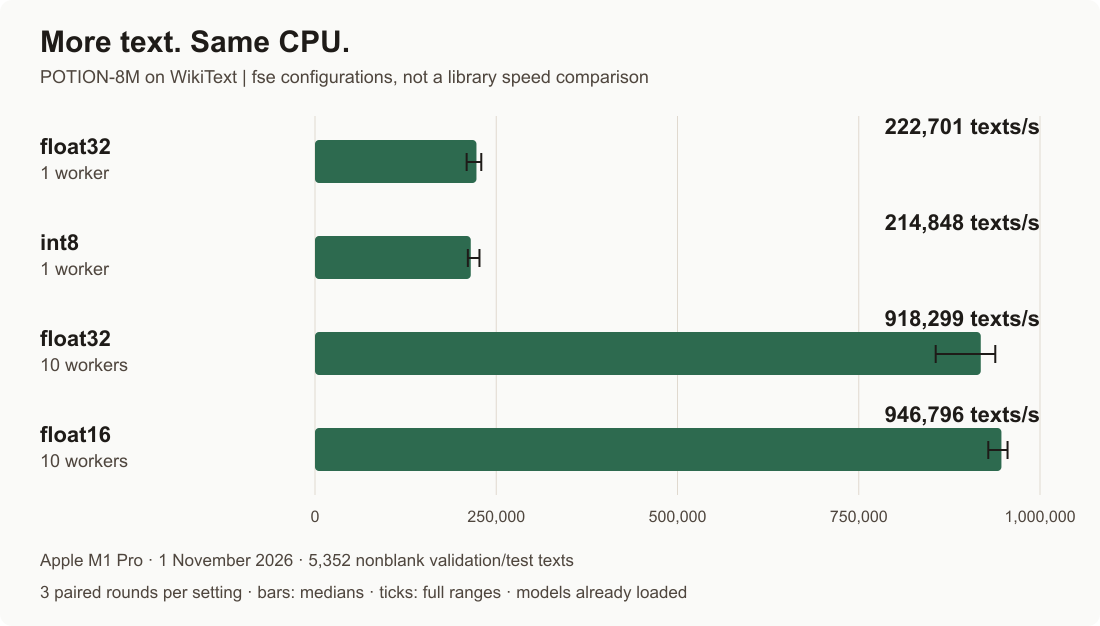
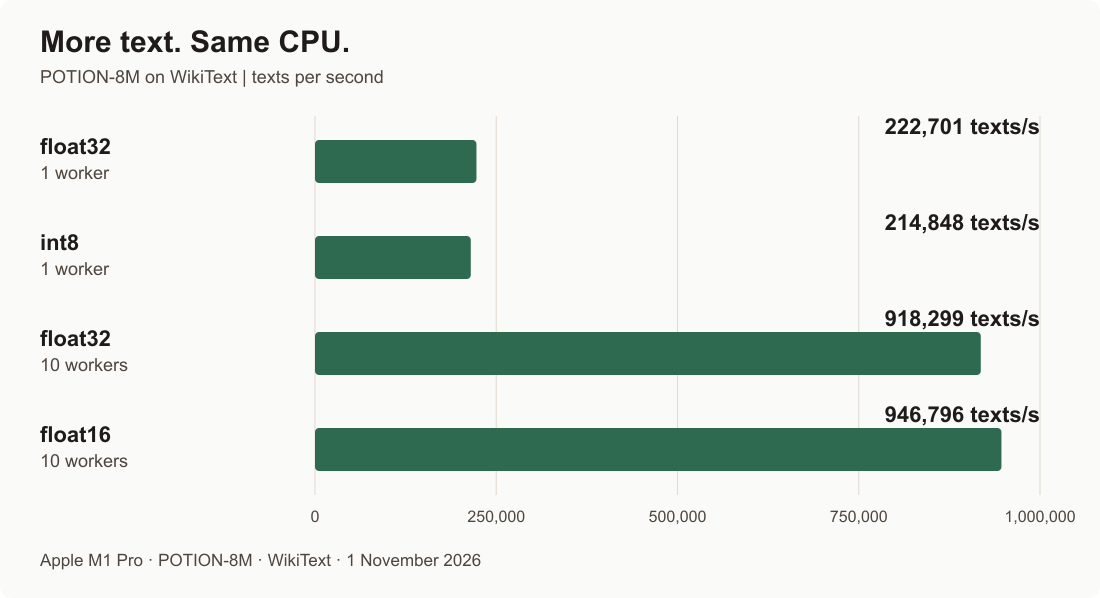
docs: simplify speed graphics and retain measurement details in evidence
Claude-Session: https://claude.ai/code/session_01GmNVELnYYJrhSRai3aBhk4

diff --git a/media/readme/generate.py b/media/readme/generate.py
@@ -29,14 +29,14 @@ def text(x, y, value, size=18, fill=None, weight=400, anchor="start"):
 for theme in ("light", "dark"):
     colors = {k: v["value"] for k, v in brand[theme].items()}
     parts = [
-        f'<svg xmlns="http://www.w3.org/2000/svg" width="1100" height="626" viewBox="0 0 1100 626" role="img" aria-labelledby="title desc"><title id="title">fse throughput on WikiText</title><desc id="desc">POTION-8M: float32 one worker 222701 texts per second; int8 one worker 214848; float32 ten workers 918299; float16 ten workers 946796. Bars show medians, ticks show full ranges. Apple M1 Pro, 1 November 2026. This compares fse configurations, not libraries.</desc><rect width="1100" height="626" rx="12" fill="{colors["bg"]}"/><g font-family="Geist, Arial, sans-serif">'
+        f'<svg xmlns="http://www.w3.org/2000/svg" width="1100" height="598" viewBox="0 0 1100 598" role="img" aria-labelledby="title desc"><title id="title">fse throughput on WikiText</title><desc id="desc">POTION-8M: float32 one worker 222701 texts per second; int8 one worker 214848; float32 ten workers 918299; float16 ten workers 946796. Apple M1 Pro, 1 November 2026. Model already loaded.</desc><rect width="1100" height="598" rx="12" fill="{colors["bg"]}"/><g font-family="Geist, Arial, sans-serif">'
     ]
     parts += [
         text(40, 52, "More text. Same CPU.", 30, weight=700),
         text(
             40,
             83,
-            "POTION-8M on WikiText  |  fse configurations, not a library speed comparison",
+            "POTION-8M on WikiText  |  texts per second",
             18,
             colors["text-secondary"],
         ),
@@ -59,8 +59,6 @@ for theme in ("light", "dark"):
         d = data[dtype, w]
         y = 140 + 96 * i
         end = x0 + width * d["median"] / 1000000
-        lo = x0 + width * d["min"] / 1000000
-        hi = x0 + width * d["max"] / 1000000
         parts += [
             text(40, y + 14, dtype, 22, weight=700),
             text(
@@ -72,20 +70,12 @@ for theme in ("light", "dark"):
             ),
             text(1040, y - 6, f"{d['median']:,.0f} texts/s", 22, weight=700, anchor="end"),
             f'<rect x="{x0}" y="{y}" width="{end - x0:.4f}" height="43" rx="4" fill="{colors["accent"]}"/>',
-            f'<path d="M{lo} {y + 22} H{hi} M{lo} {y + 13} V{y + 31} M{hi} {y + 13} V{y + 31}" fill="none" stroke="{colors["text"]}" stroke-width="2"/>',
         ]
     parts += [
         text(
             40,
             566,
-            "Apple M1 Pro  ·  1 November 2026  ·  5,352 nonblank validation/test texts",
-            17,
-            colors["text-secondary"],
-        ),
-        text(
-            40,
-            598,
-            "3 paired rounds per setting  ·  bars: medians  ·  ticks: full ranges  ·  models already loaded",
+            "Apple M1 Pro  ·  POTION-8M  ·  WikiText  ·  1 November 2026",
             17,
             colors["text-secondary"],
         ),

diff --git a/docs/benchmarks/readme-evidence.md b/docs/benchmarks/readme-evidence.md
@@ -347,3 +347,30 @@ The old 1.x STS results belong to a different API and recipe.
 See the [1.x results](https://github.com/oborchers/Fast_Sentence_Embeddings/blob/1.x/README.md#results).
 They do not measure these 2.0 models.
 
+
+## Work kept out of the main README
+
+The main README shows final values only and links here once with “How we measured”.
+It omits unfinished comparison rows and moves measurement-process wording here, including controls, A/A, ranges and noise labels.
+The full figures and source journals above retain their qualifications.
+
+TODO(DR-151): Fill the classification comparison table and chart from committed matched-pipeline records.
+Keep normalized-linear and raw-mean folded cases separate. Use the same model, weights, texts and settings per row.
+Show fse texts/s, matched reference texts/s and a paired speedup. Fine-tuned MLP results remain separate trained-model comparisons.
+Do not display an empty classification table in the main README while those values are unavailable.
+
+TODO(DR-151): Add MTEB quality comparisons for classic raw and SIF-10 models when measured.
+
+TODO(DR-151): Add a worker-scaling series from 1 through 10, explicitly including 8 and 10.
+Use one fixed model, dtype, input corpus and machine. Plan a small chart/table with actual measured points only, not interpolated values.
+The main README gets no empty scaling rows. Source metadata and acceptance checks stay in this guide.
+
+The folding explanation in the main README uses the executed recipe 08 result at source 32ff539e19044b69c48d9891b2cb16ddd17e10cc.
+The explicit and folded paths agree on all 2,000 AG News labels; maximum probability difference 3.069639205932617e-06.
+The complete file (30,668,970 bytes) rounds to 29.2 MiB; standalone (900,522 bytes) rounds to 0.86 MiB.
+These are final storage/accuracy observations, not a throughput speedup. Normalized heads run explicitly in fse; hidden-layer neural heads are unsupported.
+
+The maintainer selected the headline “Compute nearly 1 million text embeddings per second.”
+It refers to the final 918,299 texts/s float32 ten-worker cell, not a new measurement.
+Keep the model, machine and date beside the speed graphic. Add “Average text: N words” there once DR-151 commits text-length statistics.
+No text length or multi-million-text result is inferred from throughput.

diff --git a/media/readme/README.md b/media/readme/README.md
@@ -9,7 +9,8 @@ The visuals use the brand's editorial explainer mode: warm surfaces, one green a
 Values come from `docs/benchmarks/readme-runtime-window5-20261101/summary.json`
 and `docs/benchmarks/readme-int8-20261101/summary.json`. The latter adds only its eligible one-worker int8 cell.
 Ten-worker int8 exceeds the 10% A/A band and is not plotted. All plotted fse rows have the same runtime content identity.
-Bars use exact fse-a medians with a common zero baseline. Whiskers show the full observed range.
+Bars use exact final fse-a medians with a common zero baseline.
+The user-facing chart omits measurement-process labels and range whiskers. Full ranges, A/A and source records stay in the evidence guide.
 The model, corpus, machine, date and measurement scope appear inside the image.
 No Model2Vec rate or inferred words-per-second count is plotted.
 

diff --git a/docs/benchmarks/readme-int8-20261101/README.md b/docs/benchmarks/readme-int8-20261101/README.md
@@ -36,7 +36,7 @@ The ten-worker upper band exceeds 1.10, so its rate is not used as a stable head
 The chart compares fse configurations only. It makes no dtype speedup, classifier-speed or library-ratio claim.
 
 The largest primary process peaks were 169,639,936 bytes (161.8 MiB) for one worker and
-168,886,272 bytes (161.1 MiB) for ten. These include loading, warmup and outputs, not just encoding allocations.
+168,886,272 bytes (161.1 MiB) for ten, **noisy, to be re-measured** (A/A band 0.8953 to 1.1169). These include loading, warmup and outputs, not just encoding allocations.
 The noisy timing label is about timing variation, not a separate measurement of memory variation.
 
 ## Executed identities
